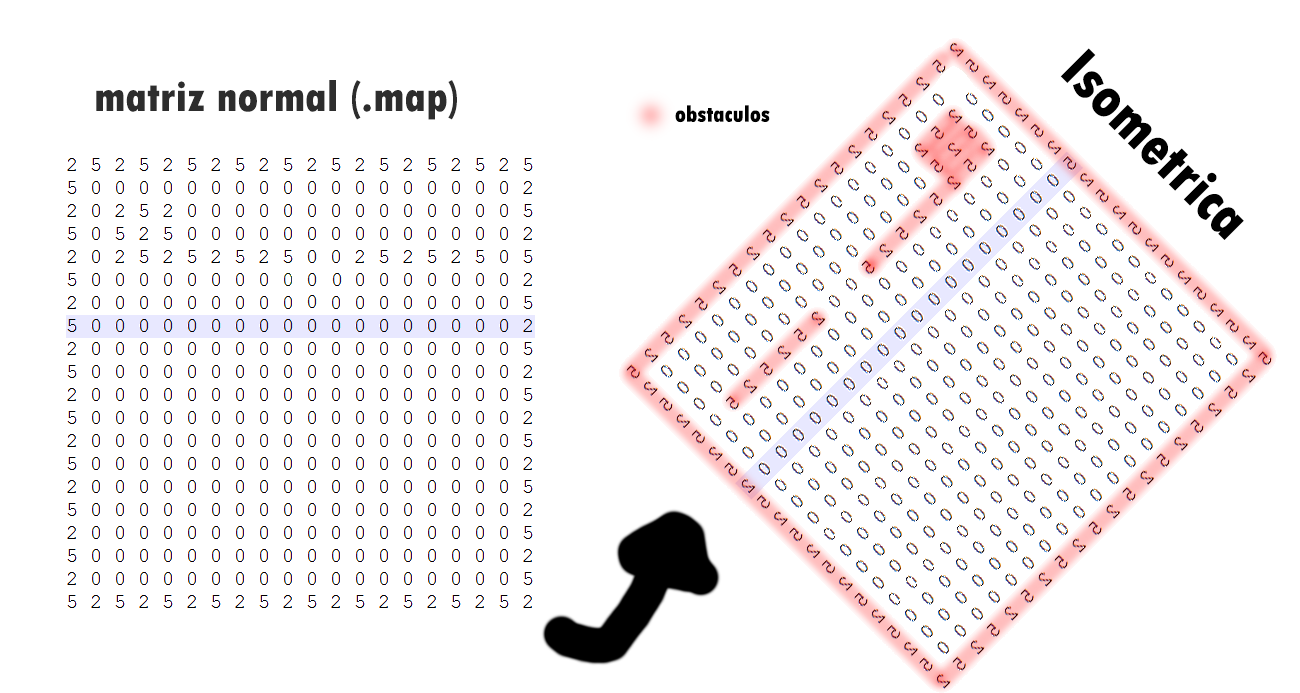
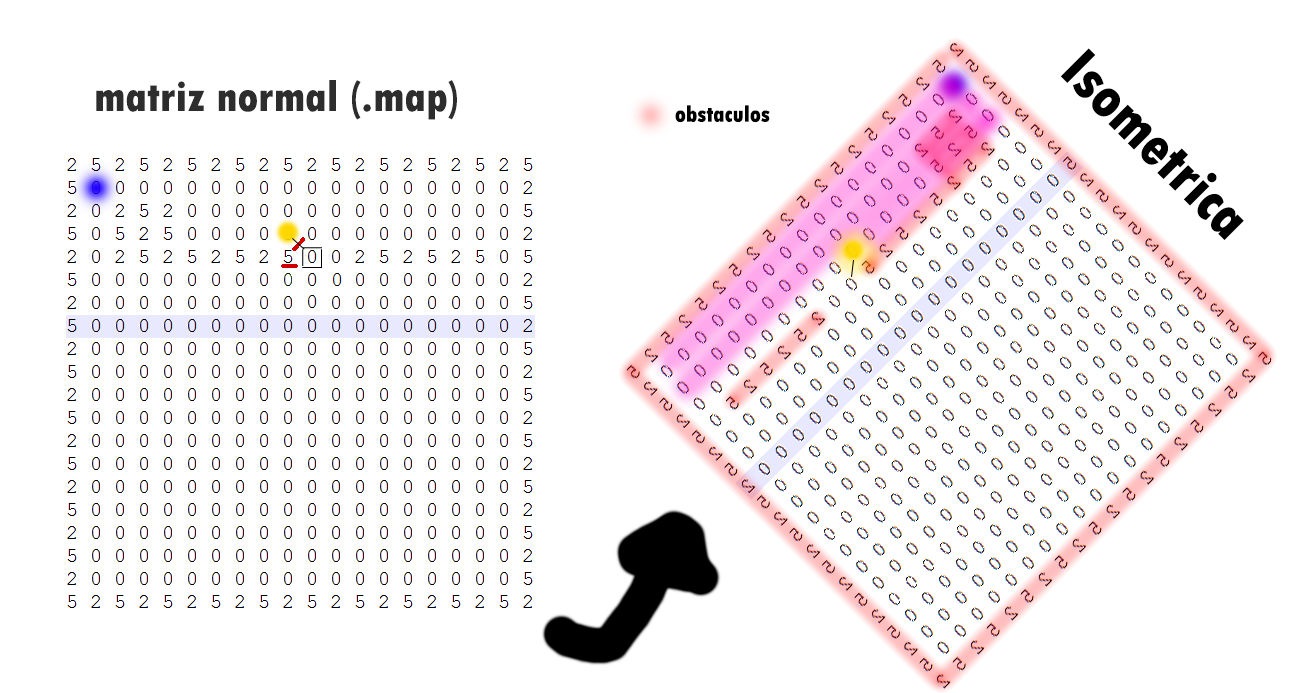
1er fix de animaciones + cosillas
Ahora el personaje se anima (en movimiento) de manera correcta  (aunque
los sprite sean feos)
cayo un trueno D:

Changed region(s): [[0.4923, 0.0909, 0.7692, 0.5758], [0.2154, 0.303, 0.2462, 0.3939], [0.0615, 0.2424, 0.0923, 0.303]]

diff --git a/cliente/src/main/java/mapagrafico/MapaGrafico.java b/cliente/src/main/java/mapagrafico/MapaGrafico.java
@@ -1,4 +1,4 @@
-package mapagrafico;
+	package mapagrafico;
 
 import java.awt.Color;
 import java.awt.Graphics2D;
@@ -60,6 +60,7 @@ public class MapaGrafico {
 	private Nodo actual;
 	private Nodo destino;
 
+	
 	public MapaGrafico(String nombre,TilePersonaje pj) {
 		File path = new File("src\\main\\resources\\mapas\\"+nombre+".map");
 		this.pj = pj;
@@ -185,8 +186,23 @@ public class MapaGrafico {
 
 		if( !pj.enMovimiento() && camino != null && ! camino.isEmpty() ){
 			moverUnPaso();
+			/**
+			 * 
+			 *  Aca Braian,  se cambia el destino (osea el punto donde me dirigo)
+			 *  No utilizo la clase punto porque me parece poco optimo llamarla 60 por segundo pero se puede construir aca y mandar 
+			 *  esto no se va a ejecutar siempre,s olo cuando me estoy realmente moviendo.
+			 *  
+			 * 
+			 */		
+			pj.paraDondeVoy(xDestino, yDestino);
 			pj.mover(xDestino,yDestino);	
 		}
+		
+		if(	camino.isEmpty()  ) //Fijarse para que pare justo cuando termina de dibujar.
+			pj.parar();	
+			
+		
+			
 	}
 
 	private void moverUnPaso() { // Esto tengo que ver, pero lo que hace es mover paso a paso por el camino del DI kjsoihyoas TRAMMMMMMMMMMM
@@ -233,17 +249,13 @@ public class MapaGrafico {
 		//Tiene que ser uno por uno entonces si cancelo termino el movimiento (sino se descuajaina todo).
 		x = tiles[0][0].getXIso(); // puedo agarrar el centro. pero por ahora asi.
 		y = tiles[0][0].getYIso();
-		
 		for (int i = 0; i <  alto; i++) { 
 			for (int j = 0; j < ancho ; j++) { 
 				tiles[i][j].mover(g2d,xDestino + JuegoPanelTestBatalla.xOffCamara,yDestino+JuegoPanelTestBatalla.yOffCamara);
 				if( puedoDibujarPJ(g2d, i, j))
 					pj.dibujarCentro(g2d);
-				if( puedoDibujarObstaculo(i, j)  ){
+				if( puedoDibujarObstaculo(i, j)  )
 					tilesObstaculo[i][j].mover(g2d,xDestino+ JuegoPanelTestBatalla.xOffCamara,yDestino+JuegoPanelTestBatalla.yOffCamara);
-				}
-				/*if(i != xActual && j != yActual)
-					pj.dibujarCentro(g2d);*/
 			}
 		}
 		g2d.drawImage( iluminacion, 0, 0 , null);	
@@ -258,7 +270,9 @@ public class MapaGrafico {
 	private boolean puedoDibujarPJ(Graphics2D g2d, int i, int j) {
 		return  i == -xDestino && j == -yDestino || i == xAnterior &&  j == yAnterior || i == -xDestino && j == yAnterior ||  i == xAnterior && j == -yDestino;
 	}  
-
+	/**
+	 * Estrambolico, avisa cuando termino de moverse el personaje. deberia camiarlo ya que utiliza los tiles Graficos.
+	 */
 	private void termino() {
 		if ( x == tiles[0][0].getXIso() && y == tiles[0][0].getYIso() )
 			pj.setEnMovimiento(false);

diff --git a/cliente/src/main/java/mapagrafico/TilePersonaje.java b/cliente/src/main/java/mapagrafico/TilePersonaje.java
@@ -101,7 +101,6 @@ public class TilePersonaje {
 			setNuevoRecorrido(true);
 			xDestino = xInicio - posMouse[0] + JuegoPanelTestBatalla.xOffCamara;
 			yDestino = yInicio - posMouse[1] + JuegoPanelTestBatalla.yOffCamara;
-			paraDondeVoy(xDestino, yDestino);
 			mouse.setRecorrido(false); 
 		}
 
@@ -165,8 +164,13 @@ public class TilePersonaje {
 		/**
 		 * Dani, me tiraste cualquier cosa en los nombres, nada se movia para los
 		 * lados que decia -.-
+		 * Se ya se me di cuenta, pero esta la estructura loco :v
 		 */
-		
+		if (xInicio == xDestino2 && yInicio == yDestino2) { // sureste
+			parado = true;
+			return; 
+		}
+			
 		if (xInicio > xDestino2 && yInicio == yDestino2) { // sureste
 			movAbajoDerecha = true;
 			return;
@@ -176,7 +180,6 @@ public class TilePersonaje {
 			return;
 		}
 		if (xInicio == xDestino2 && yInicio < yDestino2) {// noreste
-			System.out.println("arriba a la derecha");
 			movArribaDerecha = true;
 			return;
 		}
@@ -222,6 +225,7 @@ public class TilePersonaje {
 		else if (this.movAbajoIzquierda)
 			return this.animAbajoIzquierda.getFrameActual();
 
+
 		return Sprite.pjAbajo[0];
 	}
 
@@ -245,6 +249,20 @@ public class TilePersonaje {
 	}
 	public boolean isHorizontal() {
 		return horizontal;
+	}
+
+
+	public void parar() {
+		movAbajoIzquierda = false;
+		movArribaDerecha = false;
+		movArribaIzquierda = false;
+		movAbajoDerecha = false;
+		movArriba = false;
+		movDerecha = false;
+		movAbajo = false;
+		movIzquierda = false;
+		parado = false;
+		parado = true;
 	}
 
 

diff --git a/cliente/src/main/java/mapagrafico/dijkstra/AlgoritmoDelTacho.java b/cliente/src/main/java/mapagrafico/dijkstra/AlgoritmoDelTacho.java
@@ -23,13 +23,13 @@ public class AlgoritmoDelTacho {
 
 	public void calcularDijkstra(Grafo grafo, Nodo inicial,Nodo destino) {
 		predecesores = new HashMap<Nodo,Nodo>();
-		
+
 		pendientes = new ArrayList<Nodo>();
 		solucion = new ArrayList<Nodo>();
 
 		distancias.put(inicial, 0); 
 		pendientes.add(inicial);
-	
+
 		while (pendientes.size() > 0) { 
 			actualW = obtenerMinimo(pendientes); 
 			if(actualW == destino) // Ultra optimizacion :) 
@@ -82,30 +82,30 @@ public class AlgoritmoDelTacho {
 	public boolean yaVisitado(Nodo nodo) {
 		return solucion.contains(nodo);
 	}
-	
+
 	public LinkedList<Nodo> obtenerCamino(Nodo destino){
 		LinkedList<Nodo> camino = new LinkedList<Nodo>();
 		Nodo nodito = destino;
 		if(predecesores.get(nodito)==null)
-		return null;
-		
+			return null;
+
 		camino.add(nodito);
 		while(predecesores.get(nodito)!=null){
 			nodito = predecesores.get(nodito);
 			camino.add(nodito);
-			
+
 		}
-		
+
 		Collections.reverse(camino);
 		return camino;
 	}
-	
+
 	public String mostrarCamino(Nodo destino){
 		LinkedList<Nodo> camino = obtenerCamino(destino);
 		String aux = "";
 		if(camino==null)
 			return aux;
-		
+
 		for (int i = 0; i < camino.size(); i++) {
 			aux += " " + camino.get(i).getPunto();
 		}

diff --git a/cliente/src/main/java/juego/JuegoPanel.java b/cliente/src/main/java/juego/JuegoPanel.java
@@ -18,7 +18,7 @@ public class JuegoPanel extends Component implements Runnable{
 	public static final int ANCHO = 800;
 	public static final int ALTO = 600;
 	public static final int fps = 60;
-	
+
 
 	public static double timePerTick = 1000000000/fps;
 	private MapaGrafico mapa;
@@ -29,9 +29,9 @@ public class JuegoPanel extends Component implements Runnable{
 	private TilePersonaje pjDibujo;
 
 	JFrame padre;
-	
-	private boolean jugar = true;
 
+	private boolean jugar = true;
+	
 	public JuegoPanel(JFrame padre,Punto spaw, Personaje pj) {
 		this.padre = padre;
 		setPreferredSize(new Dimension(ANCHO, ALTO));
@@ -53,7 +53,7 @@ public class JuegoPanel extends Component implements Runnable{
 		long lastTime = System.nanoTime();
 
 		while(ejecutando) {
-			
+
 			now = System.nanoTime();
 			delta += (now - lastTime)/timePerTick;
 			lastTime = now;
@@ -81,6 +81,6 @@ public class JuegoPanel extends Component implements Runnable{
 			jugar = false;
 		}
 		mapa.mover(g2d);
-		
+
 	}
 }

diff --git a/cliente/src/main/java/mapagrafico/dijkstra/Nodo.java b/cliente/src/main/java/mapagrafico/dijkstra/Nodo.java
@@ -44,9 +44,9 @@ public class Nodo {
 
 	@Override
 	public String toString() {
-		String aux = pos+"";
-		//for (Nodo nodo : nodosAdyacentes)
-		//	aux += nodo.pos.toString() + " ";
+		String aux = pos+": ";
+		for (Nodo nodo : nodosAdyacentes)
+			aux += nodo.pos.toString() + " ";
 		return aux;
 	}
 
